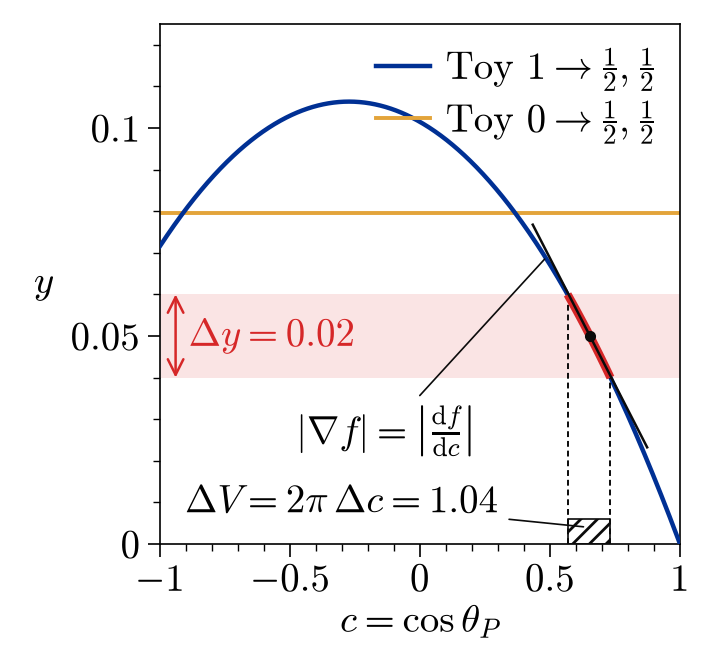
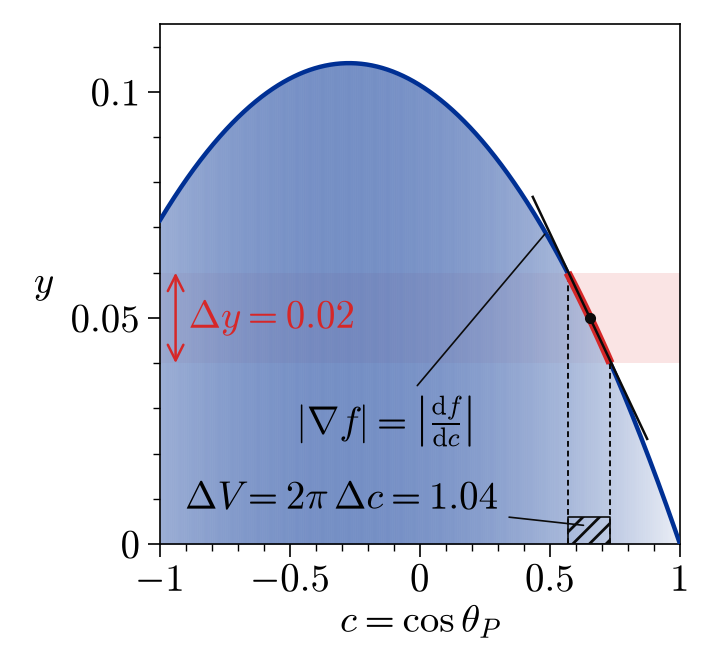
Fig. 8 single panel in navy/amber; Fig. 7 1-D without toy 0, shaded
Claude-Session: https://claude.ai/code/session_01FSjXgdaswEHfxoteyCtD3a

diff --git a/study_truthmatch/paper_figs_matched.py b/study_truthmatch/paper_figs_matched.py
@@ -167,9 +167,11 @@ def auc(y_tt, y_s):
 
 
 def fig_levels(y_matched, path):
-    lv = [("parton", "parton", (0, (1, 1.2)), M.INK),
-          ("gen", r"generator, $\chi^2$", (0, (5, 2)), M.GRAY),
-          ("reco", r"reconstructed, $\chi^2$", "-", M.GRAY),
+    from matplotlib.colors import LinearSegmentedColormap
+    blues = LinearSegmentedColormap.from_list("tt", ["#ffffff", M.NAVY])
+    lv = [("parton", "parton", (0, (1, 1.2)), M.NAVY),
+          ("gen", r"generator, $\chi^2$", (0, (5, 2)), blues(0.7)),
+          ("reco", r"reconstructed, $\chi^2$", "-", blues(0.45)),
           ("matched", r"reconstructed, truth matched", "-", HH_C)]
     q_edges = np.linspace(0, 1, 11)
     curves = {}
@@ -181,34 +183,28 @@ def fig_levels(y_matched, path):
             yt, ys = sc["train"], sc["hh"]
         curves[key] = (*roc_and_ratio(yt, ys, q_edges), auc(yt, ys), len(ys))
     P = M.PANEL_DATA
-    T, GX, B, RT, TOP = 0.75, 0.55, 0.62, 0.15, 1.05           # room for the legend above the panels
-    W = T + P + GX + T + P + RT
+    T, GX, B, RT, TOP = 0.75, 0.55, 0.62, 4.0, 0.12            # one panel (the ROC curves bunch up); legend on its right
+    W = T + P + RT
     H = B + P + TOP
     fig = plt.figure(figsize=(W, H))
-    ax1 = M.place(fig, T, B, P, P, W, H)
-    ax2 = M.place(fig, T + P + GX + T, B, P, P, W, H)
-    ax1.plot([0, 1], [0, 1], color=M.GRAY, lw=0.5, ls=":")
+    ax2 = M.place(fig, T, B, P, P, W, H)
     qc = 0.5 * (q_edges[1:] + q_edges[:-1])
     ax2.axhline(1, color=M.GRAY, lw=0.5, ls=":")
     for key, lab, ls, col in lv:
         eff_t, eff_s, h, err, a, _ = curves[key]
         lw = 1.6 if key in ("matched", "parton") else 1.2
-        ax1.plot(eff_t, eff_s, color=col, ls=ls, lw=lw)
         ax2.plot([], [], color=col, ls=ls, lw=lw, label=f"{lab}  (${a:.3f}$)")
         ax2.stairs(h, q_edges, color=col, ls=ls, lw=lw, baseline=None)
         if key == "matched":
             ax2.fill_between(q_edges, np.r_[h - err, (h - err)[-1]], np.r_[h + err, (h + err)[-1]], step="post",
                              color=col, alpha=0.18, lw=0)
-    ax1.set_xlim(0, 1); ax1.set_ylim(0, 1)
-    ax1.set_xlabel(r"$t\bar{t}$ efficiency")
-    ax1.set_ylabel(r"$HH$ efficiency")
-    fig.legend(*ax2.get_legend_handles_labels(), loc="upper center", ncol=2, bbox_to_anchor=(0.5, 1.0),
-               fontsize=M.FONT * 0.86, handlelength=1.8, columnspacing=1.2, labelspacing=0.15, borderaxespad=0.1)
+    ax2.legend(loc="center left", bbox_to_anchor=(1.04, 0.5), handlelength=1.8, labelspacing=0.35, borderaxespad=0.0,
+               title=r"$\mathrm{level\ (AUC)}$", alignment="left")
     ax2.set_xlim(0, 1)
-    ax2.set_ylim(0.4, 2.6)
+    ax2.set_ylim(0.4, 2.5)
     ax2.set_xlabel(r"$t\bar{t}$ quantile $q$ of $y$")
     ax2.set_ylabel(r"$HH$ / $t\bar{t}$ density")
-    for ax in (ax1, ax2):
+    for ax in (ax2,):
         M.finish(ax, no_values_y=False)
     for ext in ("pdf", "png"):
         fig.savefig(f"{path}.{ext}", dpi=150)

diff --git a/paper_figs/fig7_volume3d.py b/paper_figs/fig7_volume3d.py
@@ -51,8 +51,13 @@ def main():
     ax = M.place(fig, T, B, P, P, W, H)
     c = np.linspace(-1, 1, 801)
     ax.axhspan(Y1, Y2, color=RED, alpha=0.12, lw=0)
-    ax.plot(c, f(c), color=M.NAVY, lw=1.6, zorder=3, label=r"$\mathrm{Toy}\ 1 \to \frac{1}{2}, \frac{1}{2}$")
-    ax.axhline(1 / (4 * np.pi), color=M.AMBER, lw=1.4, zorder=2, label=r"$\mathrm{Toy}\ 0 \to \frac{1}{2}, \frac{1}{2}$")
+    # the area under f shaded white-to-navy in y, as the density panels of Figs. 2-4
+    from matplotlib.colors import LinearSegmentedColormap
+    cmap = LinearSegmentedColormap.from_list("tt", ["#ffffff", M.NAVY])
+    yc = f(c)
+    for k in range(len(c) - 1):
+        ax.fill_between(c[k:k + 2], 0, yc[k:k + 2], color=cmap(0.1 + 0.6 * yc[k] / yc.max()), lw=0, zorder=1)
+    ax.plot(c, yc, color=M.NAVY, lw=1.6, zorder=3)
     seg = np.linspace(c1, c2, 50)
     ax.plot(seg, f(seg), color=RED, lw=3.0, zorder=4, solid_capstyle="butt")
     for cc, yy in ((c1, Y2), (c2, Y1)):
@@ -72,13 +77,12 @@ def main():
                                                                    shrinkA=0, shrinkB=0))
     ax.text(xr + 0.05, 0.5 * (Y1 + Y2), rf"$\Delta y = {Y2 - Y1:.2f}$", ha="left", va="center", color=RED)
     ax.set_xlim(-1, 1)
-    ax.set_ylim(0, 0.125)
+    ax.set_ylim(0, 0.115)
     ax.set_xticks([-1, -0.5, 0, 0.5, 1])
     ax.set_yticks([0, 0.05, 0.1])
     ax.set_xlabel(r"$c = \cos\theta_P$")
     ax.set_ylabel(r"$y$", rotation=0, ha="right", va="center", labelpad=6)
     M.finish(ax, no_values_y=False)
-    ax.legend(loc="upper right", handlelength=1.4, handletextpad=0.4, labelspacing=0.2, borderaxespad=0.2)
     for ext in ("pdf", "png"):
         fig.savefig(os.path.join(HERE, f"fig7_toy_collapsed.{ext}"), dpi=200)
     json.dump(nums, open(os.path.join(HERE, "fig7_toy_collapsed.json"), "w"), indent=1)
